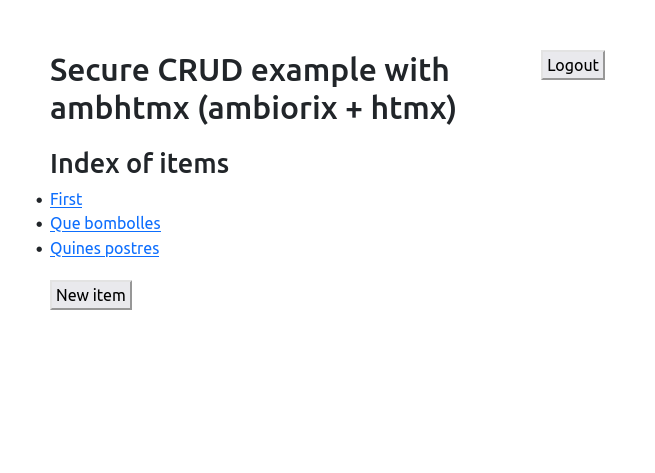
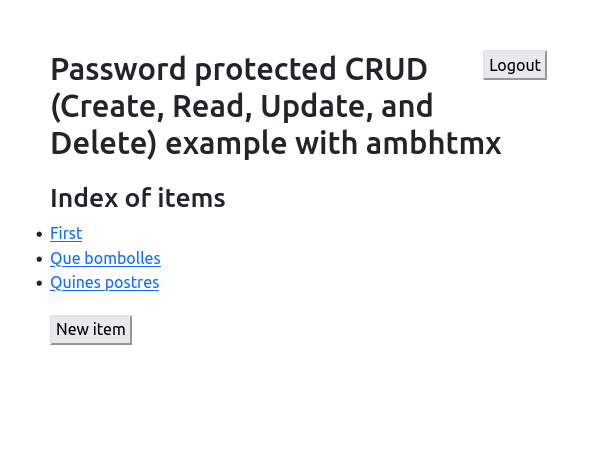
fix load_all and change title for example 7

Changed region(s): [[0.0603, 0.1184, 0.8442, 0.74], [0.7839, 0.0888, 0.9347, 0.1776]]

diff --git a/README.md b/README.md
@@ -47,5 +47,5 @@ rlang::check_installed("this.path")
 [![](https://raw.githubusercontent.com/jrosell/ambhtmx/main/inst/examples/06.png)](https://github.com/jrosell/ambhtmx/blob/main/inst/examples/06-basic-auth.R)
 
 
-### [Secure CRUD example with ambhtmx](https://github.com/jrosell/ambhtmx/blob/main/inst/examples/07-crud.R)
+### [Password protected CRUD (Create, Read, Update, and Delete) example with ambhtmx](https://github.com/jrosell/ambhtmx/blob/main/inst/examples/07-crud.R)
 [![](https://raw.githubusercontent.com/jrosell/ambhtmx/main/inst/examples/07.png)](https://github.com/jrosell/ambhtmx/blob/main/inst/examples/07-crud.R)
